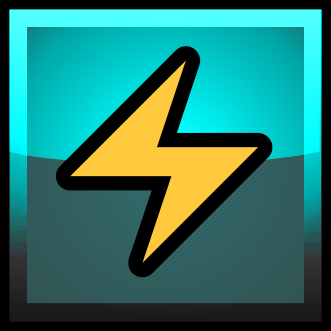
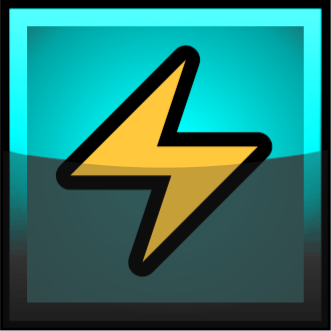
set up hydroelectric resource

diff --git a/cards-list.html b/cards-list.html
@@ -12084,12 +12084,7 @@
             <div class="content">
               <div class="points">
                 1/
-                <div
-                  class="resource"
-                  style="background: linear-gradient(skyblue, cyan)"
-                >
-                  &nbsp;
-                </div>
+                <div class="resource hydroelectric"></div>
               </div>
               <div class="tile ocean-tile red-outline"></div>
               * :
@@ -12106,12 +12101,7 @@
                 <div class="energy production"></div>
               </div>
               <div class="plus"></div>
-              <div
-                class="resource"
-                style="background: linear-gradient(skyblue, cyan)"
-              >
-                &nbsp;
-              </div>
+              <div class="resource hydroelectric"></div>
               <div class="description" style="margin-top: -8px">
                 (Effet : Chaque fois qu'un océan est placé, vous POUVEZ payer 5 M€ 
                 (vous pouvez utiliser de l'acier) pour augmenter votre production d'énergie de 1 

diff --git a/cards-list-j2.html b/cards-list-j2.html
@@ -6834,12 +6834,7 @@
             <div class="content">
               <div class="points">
                 1/
-                <div
-                  class="resource"
-                  style="background: linear-gradient(skyblue, cyan)"
-                >
-                  &nbsp;
-                </div>
+                <div class="resource hydroelectric"></div>
               </div>
               <div class="tile ocean-tile red-outline"></div>
               * :
@@ -6856,12 +6851,7 @@
                 <div class="energy production"></div>
               </div>
               <div class="plus"></div>
-              <div
-                class="resource"
-                style="background: linear-gradient(skyblue, cyan)"
-              >
-                &nbsp;
-              </div>
+              <div class="resource hydroelectric"></div>
               <div class="description" style="margin-top: -8px">
                 (Effet : Chaque fois qu'un océan est placé, vous POUVEZ payer 5 M€ 
                 (vous pouvez utiliser de l'acier) pour augmenter votre production d'énergie de 1 

diff --git a/css/mystyles.css b/css/mystyles.css
@@ -1827,6 +1827,9 @@ li.global-card::before {
 .graphene {
   background-image: url(../images/resources/graphene.png);
 }
+.hydroelectric {
+  background-image: url(../images/resources/hydroelectric-resource.png);
+}
 .one {
   background-image: url(../images/resources/one.png);
 }
